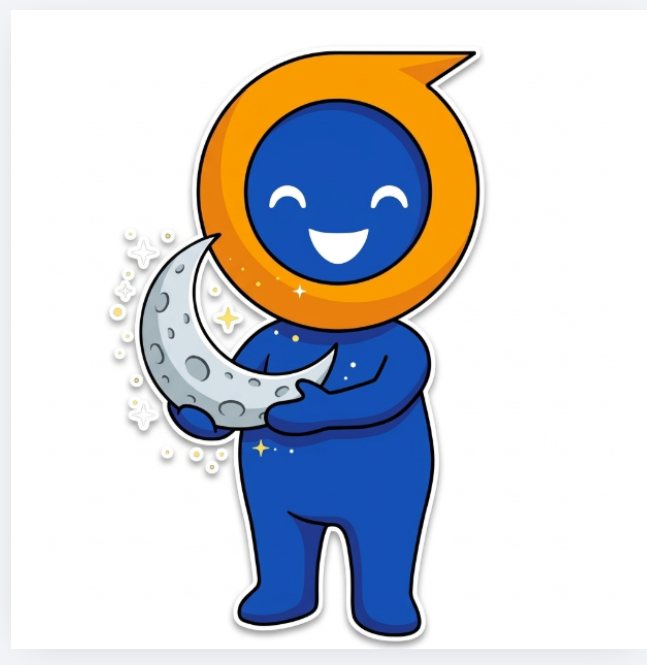
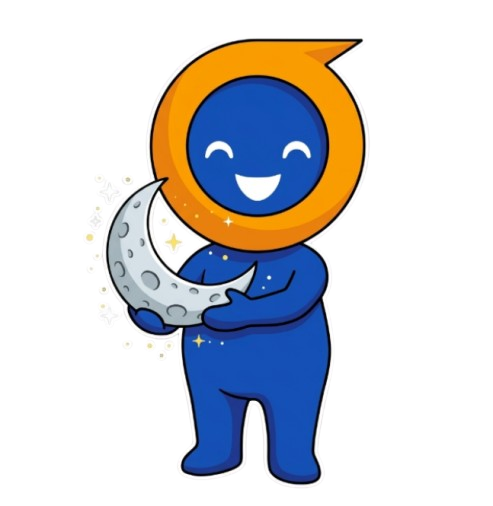
feat(portal): add dynamic mascot toggle based on time of day

diff --git a/customer_portal/templates/customer_portal/portal_dashboard.html b/customer_portal/templates/customer_portal/portal_dashboard.html
@@ -271,7 +271,7 @@
                 </div>
                 <!-- Mascot -->
                 <div class="shrink-0 w-28 h-28 sm:w-32 sm:h-32 flex items-center justify-center">
-                    <img src="{% static 'assets/images/gimi sun.png' %}" alt="Gametech Mascot" class="w-full h-full object-contain drop-shadow-xl">
+                    <img id="mascot-img" src="{% static 'assets/images/gimi sun.png' %}" data-sun="{% static 'assets/images/gimi sun.png' %}" data-moon="{% static 'assets/images/gimi moon.png' %}" alt="Gametech Mascot" class="w-full h-full object-contain drop-shadow-xl">
                 </div>
             </div>
         </div>
@@ -555,14 +555,22 @@ class="{% if is_network_issue %}text-red-600{% elif effective_status == 'Moderat
         document.addEventListener("DOMContentLoaded", function() {
             const hour = new Date().getHours();
             const greetingElement = document.getElementById('dynamic-greeting');
+            const mascotImg = document.getElementById('mascot-img');
             
-            if (greetingElement) {
+            if (greetingElement && mascotImg) {
+                // Read the Django static URLs from the HTML data attributes
+                const sunSrc = mascotImg.getAttribute('data-sun');
+                const moonSrc = mascotImg.getAttribute('data-moon');
+
                 if (hour >= 0 && hour < 12) {
                     greetingElement.innerText = "Good Morning";
+                    mascotImg.src = sunSrc; // Daytime mascot
                 } else if (hour >= 12 && hour < 18) {
                     greetingElement.innerText = "Good Afternoon";
+                    mascotImg.src = sunSrc; // Daytime mascot
                 } else {
                     greetingElement.innerText = "Good Evening";
+                    mascotImg.src = moonSrc; // Evening mascot
                 }
             }
         });
